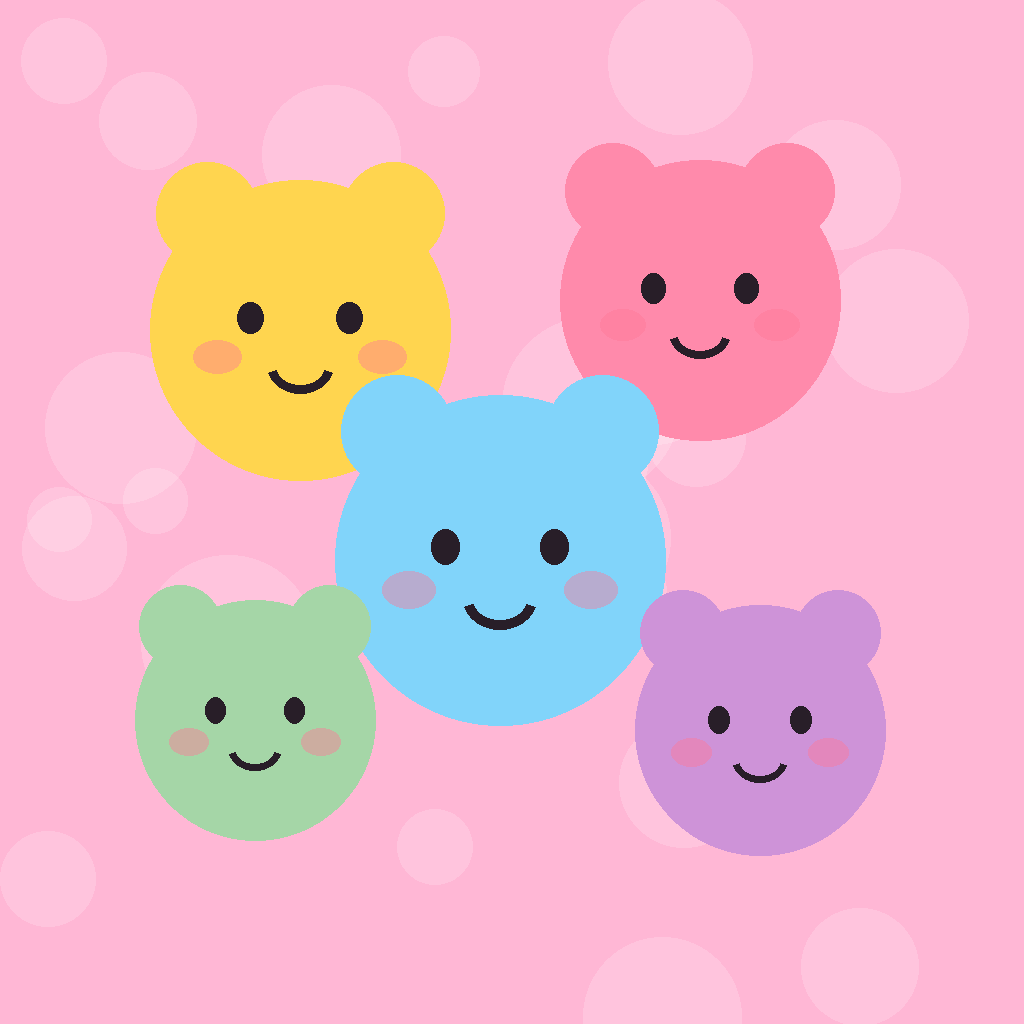
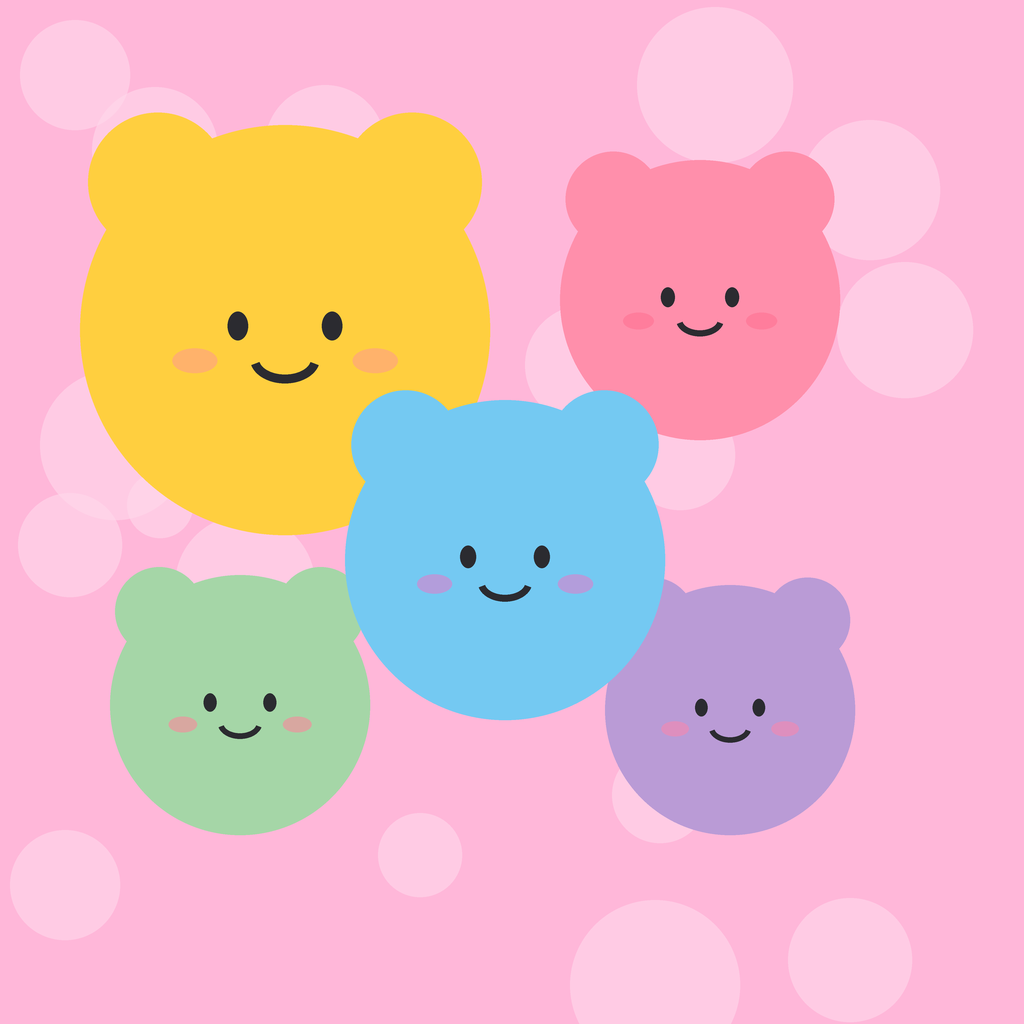
Add moco Pi investigation report (HTML + download files)

diff --git a/index.html b/index.html
@@ -132,7 +132,7 @@
 </head>
 <body>
 <div class="screen on" id="titleScreen">
-  <img class="icon" src="app-icon-1024.png" alt="">
+  <img class="icon" src="app-icon-1024.png?v=10" alt="">
   <h1>ツムツム</h1>
   <p class="sub">なぞってつなげて消すパズル</p>
   <div class="panel">
@@ -191,7 +191,7 @@
 <button id="bgmBtn" title="BGM">🎵</button>
 <div id="verTag"></div>
 <script>
-  document.getElementById('verTag').textContent = 'Tsum Pi Test v9';
+  document.getElementById('verTag').textContent = 'Tsum Pi Test v10';
   // ---------------- player identity (Pi build: set by Pi.authenticate below) ----------------
   let PLAYER = null;
   const PI_SANDBOX = true;   // testnet app
